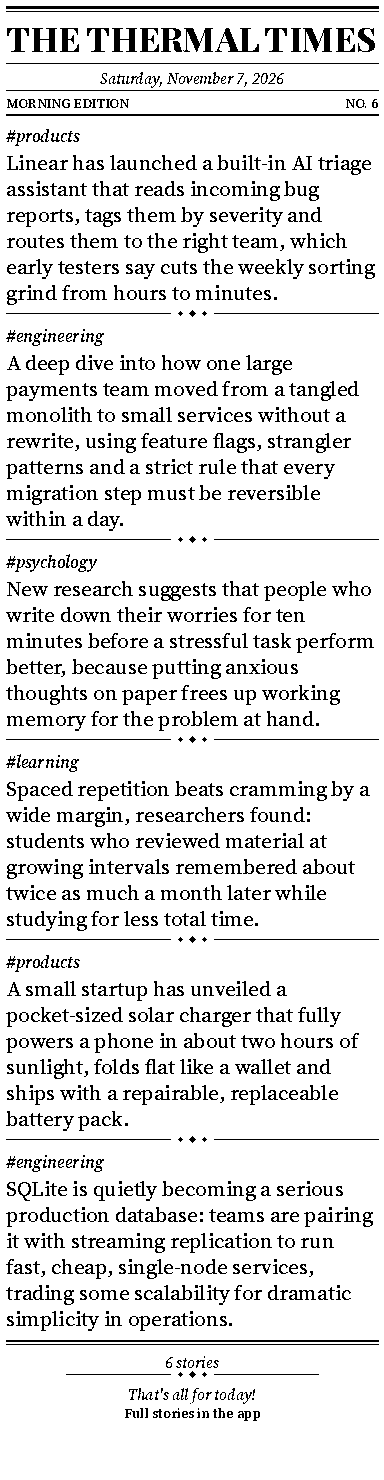
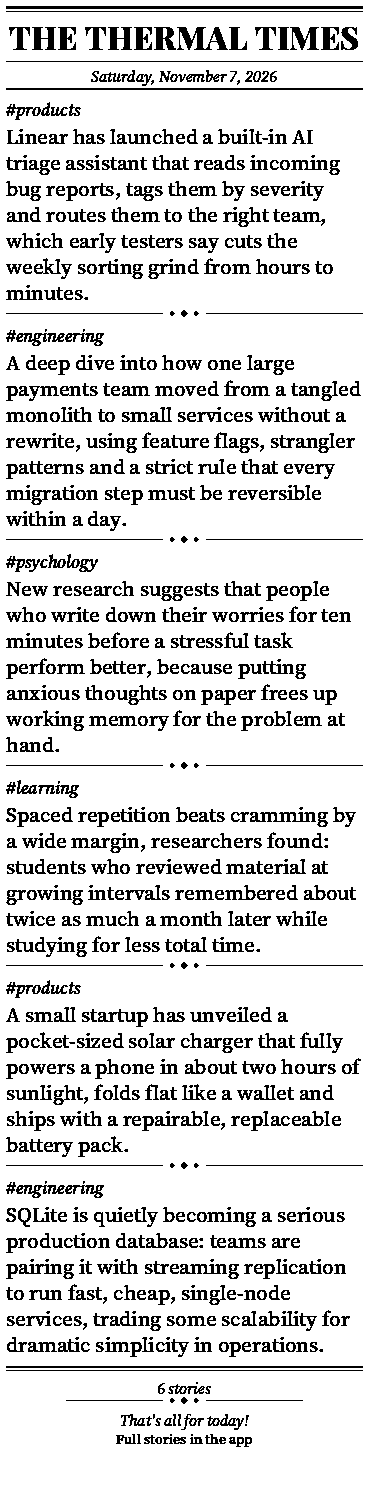
Drop edition row and add right safe margin on receipt

Changed region(s): [[0.0, 0.0, 0.9688, 0.9635], [0.9375, 0.8081, 0.9688, 0.8392]]

diff --git a/mobile/src/render/layout.ts b/mobile/src/render/layout.ts
@@ -6,9 +6,14 @@
 import type { DigestItem } from '../api/types';
 
 export const WIDTH = 384;
-export const PAD = 6;
+export const PAD = 6; // left margin
+/** Right margin: the SC03h clips the right edge of a 384-dot row, so keep content well inside. */
+export const PAD_R = 22;
 export const TEXT_X = PAD;
-export const TEXT_R = WIDTH - PAD;
+export const TEXT_R = WIDTH - PAD_R;
+/** Horizontal extent of the printable area; centred content is centred here, not on the raw canvas. */
+const CX0 = PAD;
+const CX1 = WIDTH - PAD_R;
 export const TEXT_W = TEXT_R - TEXT_X;
 export const TRAIL = 44;
 export const BODY_SIZE = 21;
@@ -121,44 +126,38 @@ function ornament(ops: DrawOp[], y: number, x0: number, x1: number) {
 export function layoutReceipt(items: DigestItem[], opts: LayoutOptions, m: TextMetrics): RenderLayout {
   const ordered = [...items].sort((a, b) => a.position - b.position);
   const ops: DrawOp[] = [];
-  const mast = fitMasthead(PAPER_NAME, WIDTH - 2 * PAD, m);
+  const mast = fitMasthead(PAPER_NAME, TEXT_R - TEXT_X, m);
   const wrapped = ordered.map((i) => wrapText(i.tldr, BODY, TEXT_W, (t, f) => m.measure(t, f)));
   const itemH = wrapped.map((ls) => 24 + ls.length * LEADING + 6);
-  const headerH = 124;
+  const headerH = 100;
   const contentH = ordered.length ? itemH.reduce((a, b) => a + b, 0) + 14 * (ordered.length - 1) : 60;
   const footerH = 100 + TRAIL;
   let height = headerH + contentH + footerH;
 
-  const centered = (y: number, text: string, font: FontSpec, x0 = 0, x1 = WIDTH) => {
+  const centered = (y: number, text: string, font: FontSpec, x0 = CX0, x1 = CX1) => {
     const w = m.measure(text, font);
     ops.push({ t: 'text', x: Math.round(x0 + (x1 - x0 - w) / 2), y, text, font });
   };
 
   // masthead
   let y = 6;
-  ops.push({ t: 'rect', x0: PAD, y0: y, x1: WIDTH - PAD, y1: y + 2 });
-  hline(ops, y + 5, PAD, WIDTH - PAD);
+  ops.push({ t: 'rect', x0: PAD, y0: y, x1: TEXT_R, y1: y + 2 });
+  hline(ops, y + 5, PAD, TEXT_R);
   y += 9;
   ops.push({
     t: 'text',
-    x: Math.round((WIDTH - m.measure(PAPER_NAME, mast)) / 2),
+    x: Math.round(CX0 + (CX1 - CX0 - m.measure(PAPER_NAME, mast)) / 2),
     y,
     text: PAPER_NAME,
     font: mast,
   });
   y += m.ascent(mast) + m.descent(mast) + 2;
-  hline(ops, y, PAD, WIDTH - PAD);
+  hline(ops, y, PAD, TEXT_R);
   y += 5;
   centered(y, formatDate(opts.editionDate), DATE_IT);
   y += 22;
-  hline(ops, y, PAD, WIDTH - PAD);
-  y += 4;
-  const no = opts.issueNo ?? ordered.length;
-  ops.push({ t: 'text', x: PAD, y, text: (opts.editionName ?? 'Morning Edition').toUpperCase(), font: SMALL });
-  const right = `NO. ${no}`;
-  ops.push({ t: 'text', x: Math.round(WIDTH - PAD - m.measure(right, SMALL)), y, text: right, font: SMALL });
-  y += 20;
-  ops.push({ t: 'rect', x0: PAD, y0: y, x1: WIDTH - PAD, y1: y + 1 });
+  // no edition name / issue number row (user preference): the date line is followed directly by a rule
+  ops.push({ t: 'rect', x0: PAD, y0: y, x1: TEXT_R, y1: y + 1 });
   y += 10;
 
   // items
@@ -183,13 +182,13 @@ export function layoutReceipt(items: DigestItem[], opts: LayoutOptions, m: TextM
 
   // footer
   let fy = y + 4;
-  ops.push({ t: 'rect', x0: PAD, y0: fy, x1: WIDTH - PAD, y1: fy + 1 });
-  hline(ops, fy + 4, PAD, WIDTH - PAD);
+  ops.push({ t: 'rect', x0: PAD, y0: fy, x1: TEXT_R, y1: fy + 1 });
+  hline(ops, fy + 4, PAD, TEXT_R);
   fy += 12;
   const n = ordered.length;
   centered(fy, `${n} ${n === 1 ? 'story' : 'stories'}`, DATE_IT);
   fy += 22;
-  ornament(ops, fy, PAD + 60, WIDTH - PAD - 60);
+  ornament(ops, fy, PAD + 60, TEXT_R - 60);
   fy += 10;
   centered(fy, "That's all for today!", DATE_IT);
   fy += 20;

diff --git a/mobile/src/render/__tests__/layout.test.ts b/mobile/src/render/__tests__/layout.test.ts
@@ -1,6 +1,6 @@
 import { describe, it, expect } from '@jest/globals';
 import type { DigestItem } from '../../api/types';
-import { LEADING, PAD, TEXT_W, WIDTH, layoutReceipt, wrapText, formatDate, type TextMetrics, type FontSpec } from '../layout';
+import { LEADING, PAD, PAD_R, TEXT_W, WIDTH, layoutReceipt, wrapText, formatDate, type TextMetrics, type FontSpec } from '../layout';
 
 // 1px per char per 2px of font size => deterministic fake metrics.
 const fake: TextMetrics = {
@@ -40,9 +40,9 @@ describe('layoutReceipt', () => {
     expect(one.width).toBe(384);
     expect(two.height).toBeGreaterThan(one.height);
   });
-  it('matches python height formula: 124 + sum(24+n*26+6) + 14*(k-1) + 144', () => {
+  it('height formula (no edition row): 100 + sum(24+n*26+6) + 14*(k-1) + 144', () => {
     const l = layoutReceipt([item(0, 'hi')], { editionDate: date }, fake);
-    expect(l.height).toBe(124 + (24 + 1 * LEADING + 6) + 144);
+    expect(l.height).toBe(100 + (24 + 1 * LEADING + 6) + 144);
   });
   it('empty digest has the no-stories text and no tags', () => {
     const l = layoutReceipt([], { editionDate: date }, fake);
@@ -50,7 +50,7 @@ describe('layoutReceipt', () => {
     expect(texts.some((t) => t.startsWith('No new stories'))).toBe(true);
     expect(texts.some((t) => t.startsWith('#'))).toBe(false);
     expect(texts).toContain('0 stories');
-    expect(l.height).toBe(124 + 60 + 144);
+    expect(l.height).toBe(100 + 60 + 144);
   });
   it('prints plain #tag, no titles, orders by position', () => {
     const l = layoutReceipt([item(1, 'second', 'learning'), item(0, 'first', 'products')], { editionDate: date }, fake);
@@ -58,13 +58,13 @@ describe('layoutReceipt', () => {
     expect(texts.indexOf('#products')).toBeLessThan(texts.indexOf('#learning'));
     expect(texts).toContain('2 stories');
   });
-  it('header copy: date, edition row, issue number', () => {
+  it('header copy: masthead and date only (no edition name / issue number row)', () => {
     const l = layoutReceipt([item(0, 'x')], { editionDate: date, editionName: 'Evening Edition', issueNo: 42 }, fake);
     const texts = l.ops.filter((o) => o.t === 'text').map((o) => (o as any).text as string);
     expect(texts).toContain('THE THERMAL TIMES');
     expect(texts).toContain('Saturday, November 7, 2026');
-    expect(texts).toContain('EVENING EDITION');
-    expect(texts).toContain('NO. 42');
+    expect(texts).not.toContain('EVENING EDITION');
+    expect(texts.some((t) => t.startsWith('NO.'))).toBe(false);
     expect(texts).toContain('1 story');
   });
   it('body lines never exceed the text column under the fake metrics', () => {
@@ -75,13 +75,13 @@ describe('layoutReceipt', () => {
         expect(o.x).toBe(PAD);
         expect(fake.measure(o.text, o.font)).toBeLessThanOrEqual(TEXT_W);
       }
-      if (o.t === 'rect') expect(o.x1).toBeLessThan(WIDTH);
+      if (o.t === 'rect') expect(o.x1).toBeLessThanOrEqual(WIDTH - PAD_R);
     }
   });
   it('masthead auto-fits to the column', () => {
     const l = layoutReceipt([], { editionDate: date }, fake);
     const mast = l.ops.find((o) => o.t === 'text' && o.font.face === 'mast') as any;
-    expect(fake.measure(mast.text, mast.font)).toBeLessThanOrEqual(WIDTH - 2 * PAD);
+    expect(fake.measure(mast.text, mast.font)).toBeLessThanOrEqual(WIDTH - PAD - PAD_R);
     expect(mast.font.size).toBeLessThanOrEqual(44);
   });
   it('formats dates', () => {

diff --git a/mobile/src/render/__tests__/receipt.test.ts b/mobile/src/render/__tests__/receipt.test.ts
@@ -2,7 +2,9 @@
 import { installNodeFonts } from '../testing';
 import { describe, it, expect, beforeAll } from '@jest/globals';
 import { renderReceipt, sampleItems } from '../index';
-import { PAD, WIDTH } from '../layout';
+import { PAD, PAD_R, WIDTH } from '../layout';
+
+const SAMPLE_HEIGHT = 1508;
 
 const opts = { editionDate: new Date(2026, 10, 7) };
 
@@ -32,9 +34,9 @@ describe('renderReceipt', () => {
     expect(c.bitmap.height).toBeGreaterThan(b.bitmap.height);
   });
 
-  it('sample height matches the python renderer (1480)', async () => {
+  it('sample height is stable (no edition row, 22px right safe margin)', async () => {
     const r = await renderReceipt(sampleItems(), opts);
-    expect(r.bitmap.height).toBe(1480);
+    expect(r.bitmap.height).toBe(SAMPLE_HEIGHT);
   });
 
   it('is deterministic', async () => {
@@ -47,7 +49,7 @@ describe('renderReceipt', () => {
   it('renders the empty digest', async () => {
     const r = await renderReceipt([], opts);
     expect(r.bitmap.width).toBe(384);
-    expect(r.bitmap.height).toBe(124 + 60 + 144);
+    expect(r.bitmap.height).toBe(100 + 60 + 144);
     expect(r.bitmap.pixels.some((v) => v === 1)).toBe(true);
   });
 
@@ -68,7 +70,7 @@ describe('renderReceipt', () => {
     // everything between header and footer rules is body text: nothing past the right padding / left padding
     let beyond = 0;
     for (let y = 130; y < height - 160; y++) {
-      for (let x = WIDTH - PAD + 1; x < WIDTH; x++) beyond += pixels[y * WIDTH + x];
+      for (let x = WIDTH - PAD_R + 1; x < WIDTH; x++) beyond += pixels[y * WIDTH + x];
       for (let x = 0; x < PAD - 2; x++) beyond += pixels[y * WIDTH + x];
     }
     expect(beyond).toBe(0);

diff --git a/mobile/src/render/__tests__/darkness.test.ts b/mobile/src/render/__tests__/darkness.test.ts
@@ -2,7 +2,7 @@
 import { installNodeFonts } from '../testing';
 import { describe, it, expect, beforeAll } from '@jest/globals';
 import { renderReceiptAt, sampleItems } from '../index';
-import { PAD, WIDTH } from '../layout';
+import { PAD, PAD_R, WIDTH } from '../layout';
 
 const opts = { editionDate: new Date(2026, 10, 7) };
 const black = (p: Uint8Array) => p.reduce((a, v) => a + v, 0);
@@ -57,7 +57,7 @@ describe('render ink weight per darkness level', () => {
       const { pixels, height } = r.bitmap;
       let beyond = 0;
       for (let y = 130; y < height - 160; y++) {
-        for (let x = WIDTH - PAD + 1; x < WIDTH; x++) beyond += pixels[y * WIDTH + x];
+        for (let x = WIDTH - PAD_R + 1; x < WIDTH; x++) beyond += pixels[y * WIDTH + x];
         for (let x = 0; x < PAD - 2; x++) beyond += pixels[y * WIDTH + x];
       }
       expect(beyond).toBe(0);

diff --git a/mobile/src/components/ReceiptMock.tsx b/mobile/src/components/ReceiptMock.tsx
@@ -47,11 +47,6 @@ export function ReceiptMock({ items, scale = 1 }: { items: DigestItem[]; scale?:
       <Rule s={s} />
       <Text style={[styles.date, { fontSize: 12 * s, marginVertical: 3 * s }]}>{date}</Text>
       <Rule s={s} />
-      <View style={[styles.edition, { paddingHorizontal: pad, marginVertical: 2 * s }]}>
-        <Text style={[styles.small, { fontSize: 10 * s }]}>MORNING EDITION</Text>
-        <Text style={[styles.small, { fontSize: 10 * s }]}>NO. {items.length}</Text>
-      </View>
-      <Rule s={s} />
       {items.map((it, i) => (
         <View key={it.article_id} style={{ paddingHorizontal: pad }}>
           <Text style={[styles.tag, { fontSize: 13 * s, marginTop: 4 * s }]}>#{it.category_slug}</Text>
